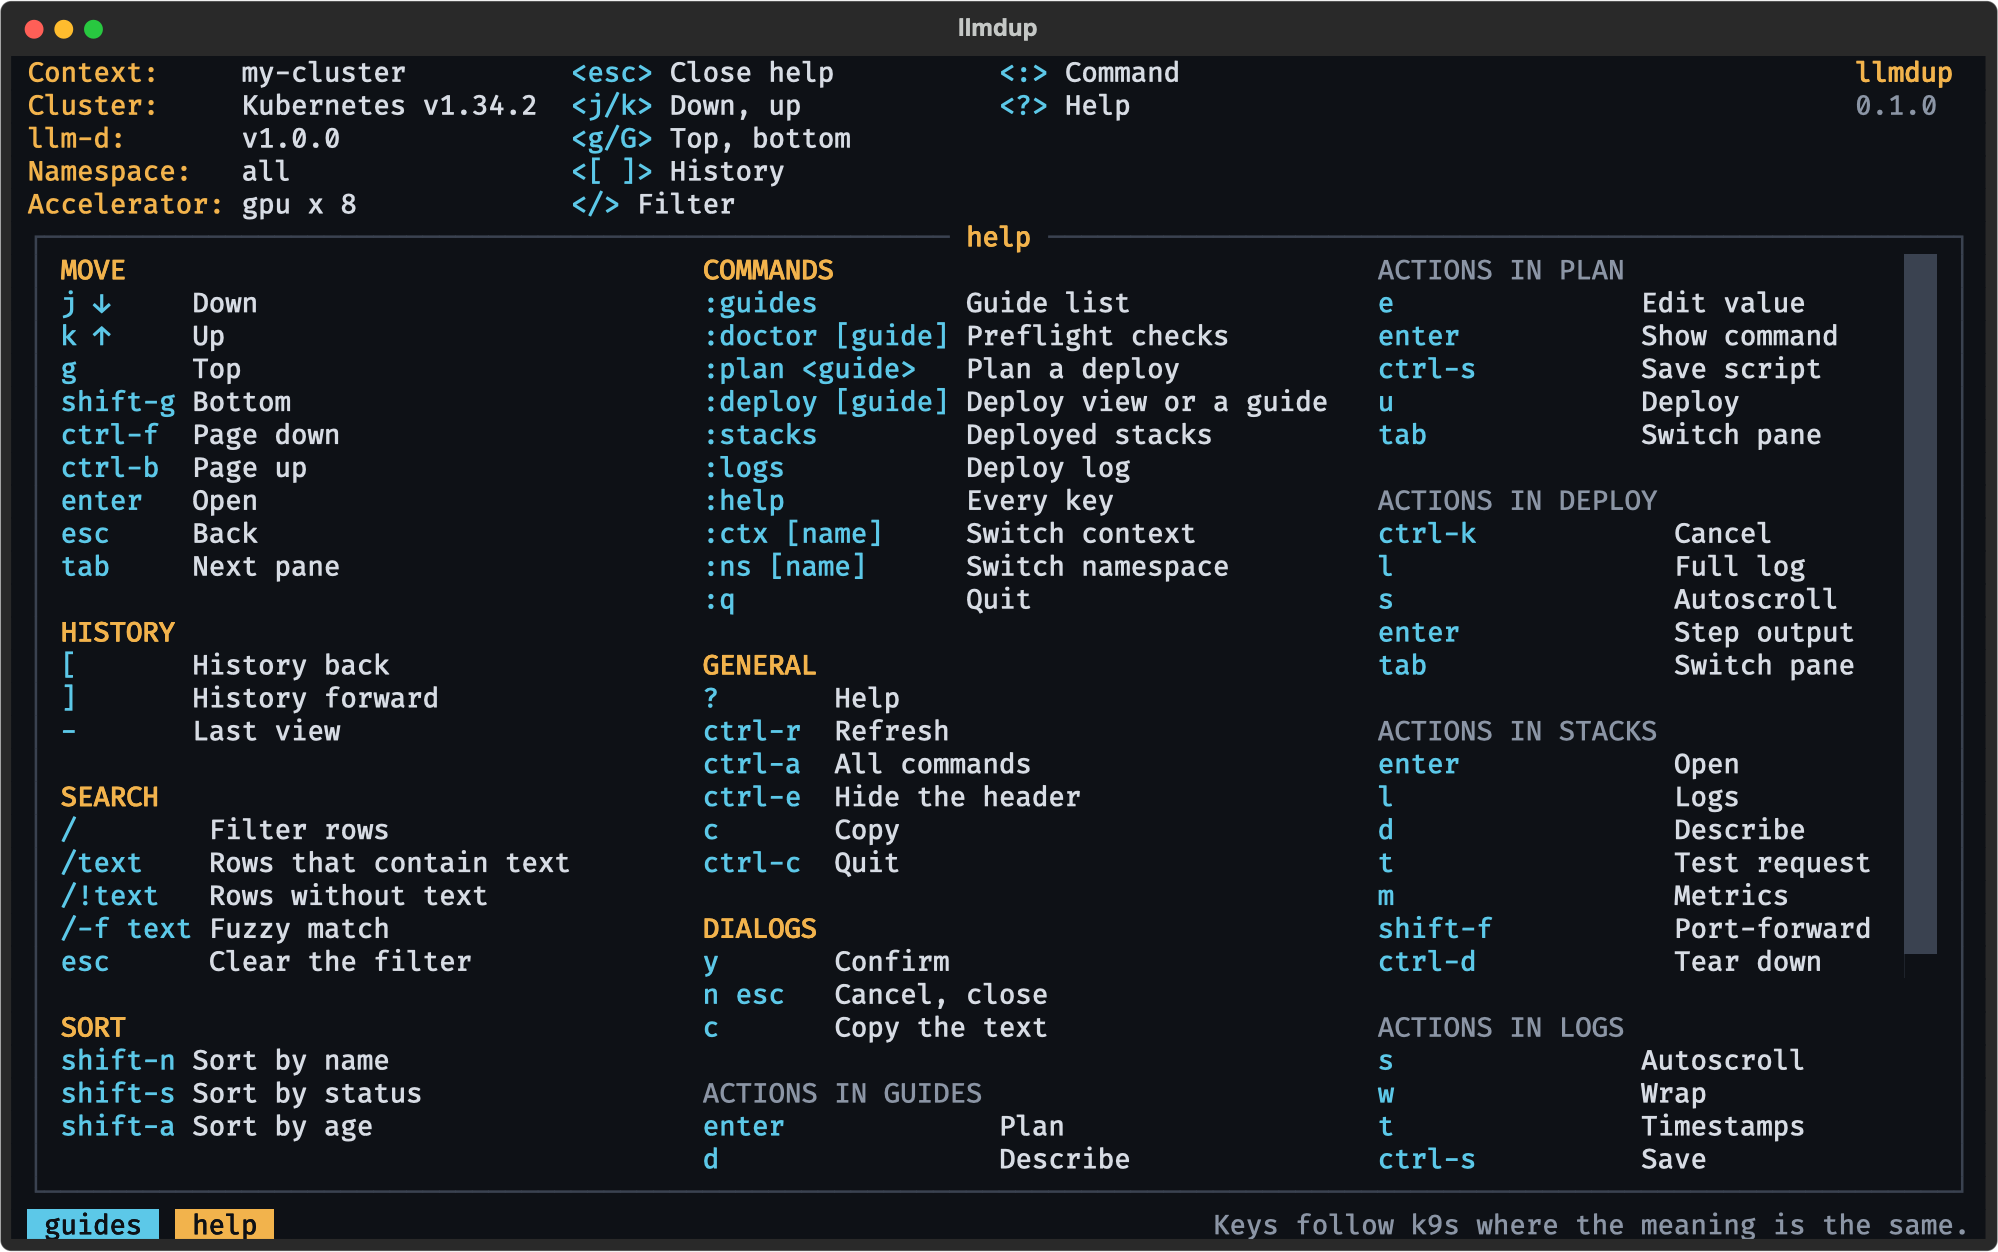
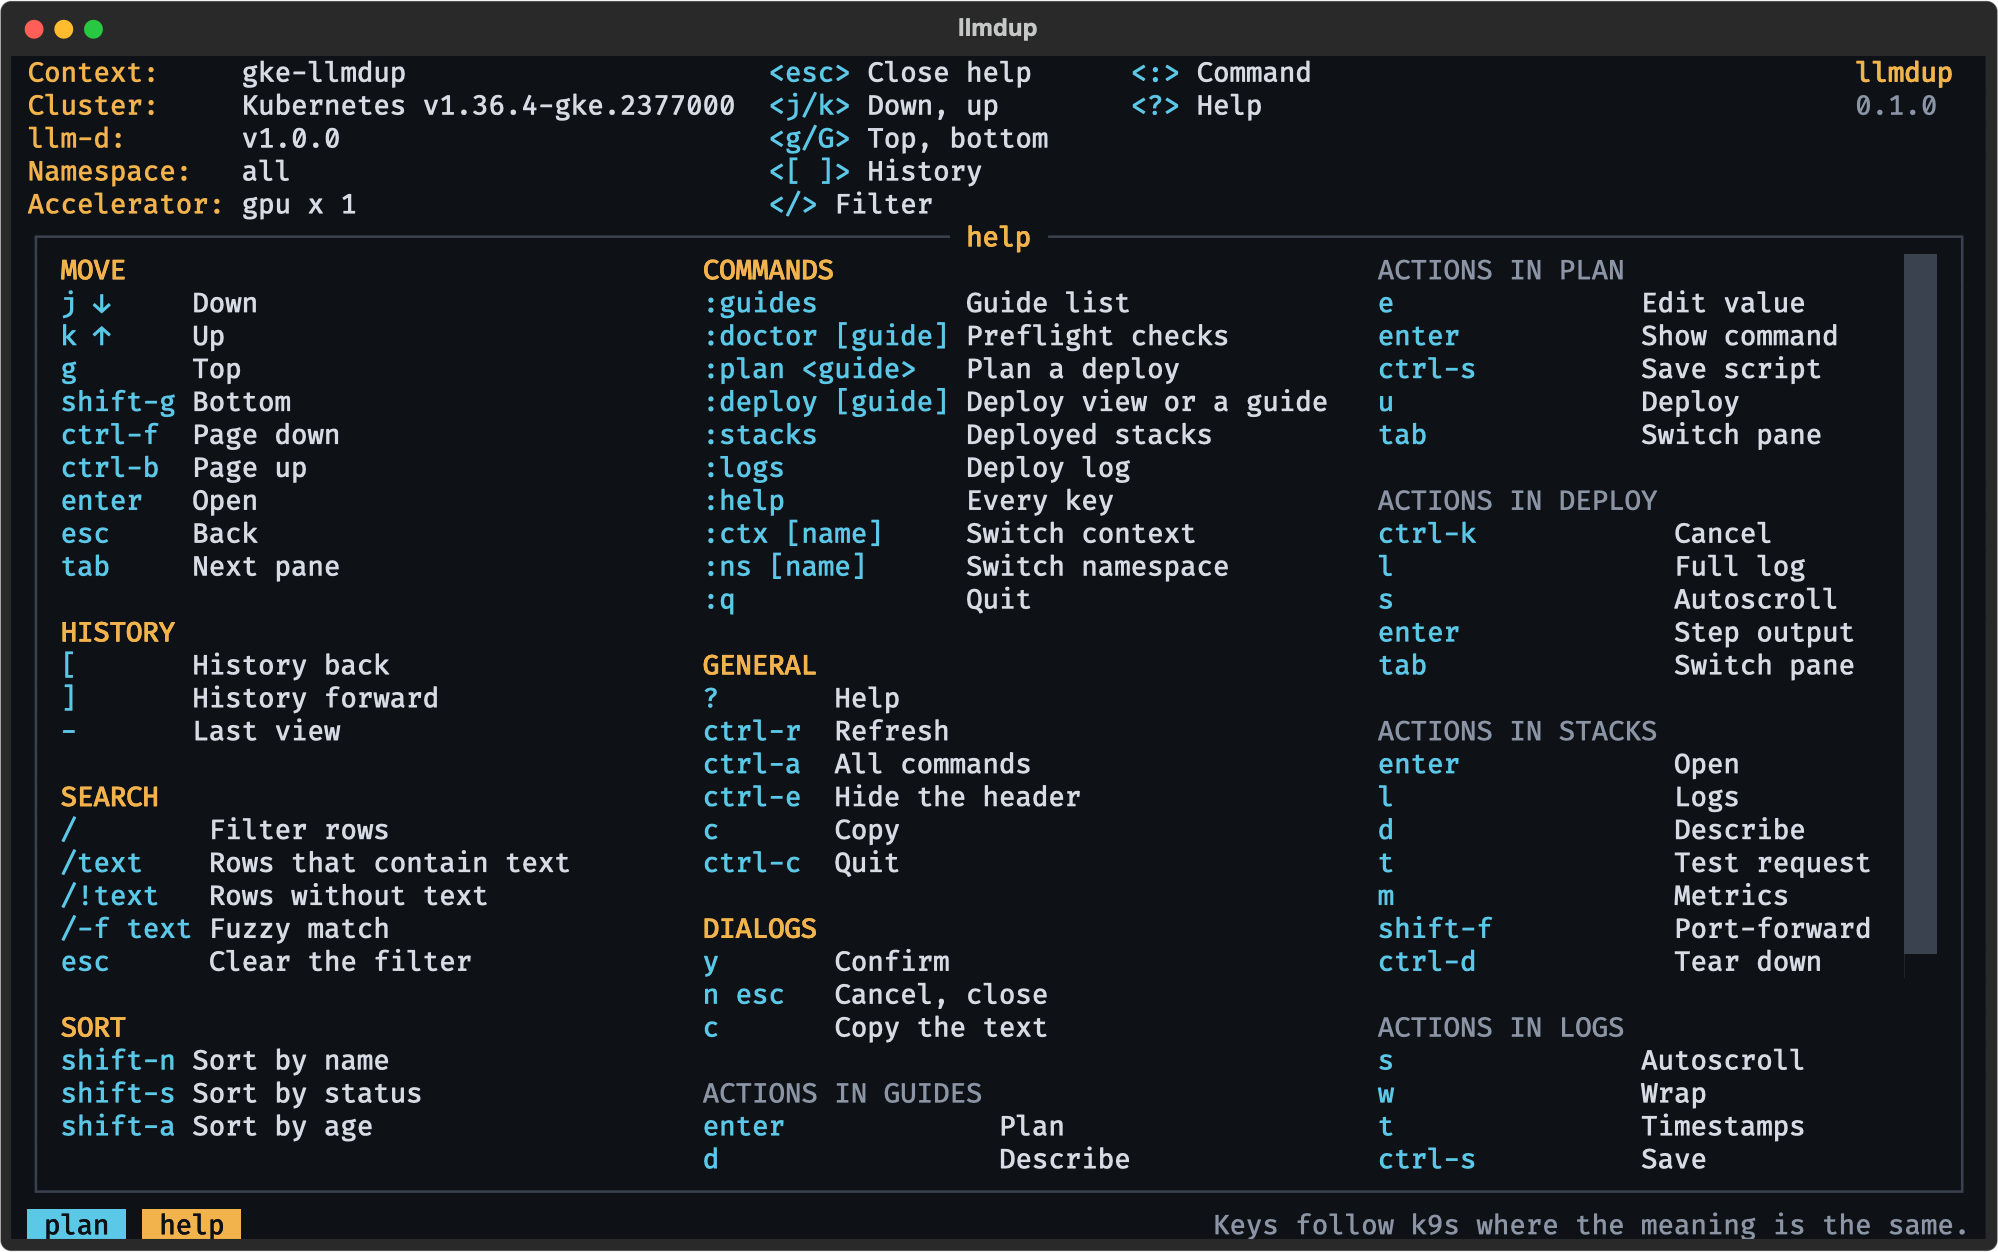
README and PROGRESS: GKE run, real screenshots from the cluster, --profile local and GKE Gateway notes

Changed region(s): [[0.2482, 0.0312, 0.6517, 0.1869], [0.031, 0.9657, 0.1552, 0.9968], [0.1241, 0.0312, 0.1862, 0.0623]]

diff --git a/PROGRESS.md b/PROGRESS.md
@@ -155,9 +155,30 @@ An Opus reviewer read Phases 0-3 and 5 and reported 4 high, 8 medium and 11 low 
 - `mcp>=2.3`; NOTICE lists the rendered GPU overlay fixture; the local-profile flow moved from cli.py into `core/local.py`; MCP `doctor` takes the same choices as `up`.
 
 ## Phase 6: Real clusters and release
-- [ ] Gateway mode, and every accelerator and engine the guide's matrix allows
-- [ ] README: install, a local demo, screenshots of the UI, and the command reference
+- [ ] Gateway mode, and every accelerator and engine the guide's matrix allows. Gateway mode on GKE: two llmdup fixes landed, the run then stopped on a GCP API that is off in the test project (below).
+- [x] README: install, a local demo, screenshots of the UI, and the command reference. Screenshots are now the app on the GKE cluster below.
 - [ ] Publish 0.1.0 to PyPI after the name check. Name check done 16 Nov 2026: `llmdup` is free on PyPI (404) and as a GitHub user/org (404). Not published: needs the user's go-ahead.
 
-Done when:
+Done when: not met yet. It needs `up optimized-baseline` on real accelerators the guide supports (4 x 80 GB GPUs, or TPU v5p/v6e/v7).
+
+### GKE run, 17 Nov 2026
+
+Cluster: GKE 1.36.4-gke.2377000, zonal us-central1-a, 2 x e2-standard-4 plus 1 spot g2-standard-4 with one NVIDIA L4, Gateway API enabled. Project quotas: 1 GPU across all regions, no H100/A100, 16 TPU v5e chips, 32 vCPU. No optimized-baseline overlay fits: GPU wants 4 x 80 GB, TPU wants v5p/v6e/v7 (no v5e overlay), CPU wants 128 cores. So the real model servers did not run; the simulator ran on the real cluster instead (`--profile local`, new in this phase). The cluster, its node pools and the proxy-only subnet were deleted after the run.
+
+| Check | Result |
+| --- | --- |
+| `doctor optimized-baseline` | Real detection: `gpu: 1 x nvidia.com/gpu`, `INFRA_PROVIDER=gke`; capacity warns 4 wanted, 1 allocatable; HF_TOKEN unset fails; exit 3 |
+| `up --profile local` standalone | 9/9 steps ok in 80 s, completion through the router |
+| `status`, `test`, `down` | ready 3/3 pods; test 5/5 steps ok (request, 10 x HTTP 200 shared prefix, metrics); down leaves nothing |
+| UI on GKE | plan, deploy (`u`, confirm), stack, test (`t`), logs, tear down (`ctrl-d`): all ok |
+| `up --profile local --mode gateway` | Not finished: GKE answers `NetworkServices API is not enabled` for the inference load balancer's traffic extension; enabling `networkservices.googleapis.com` was not done |
+
+Bugs found on GKE and fixed (commit 7cdceb3):
+- The simulator profile ran only on kind. `plan`, `doctor` and `up` take `--profile local` for any cluster, in standalone or gateway mode.
+- Upstream differs: the optimized-baseline `deploy.gateway` step pins `export GW_PROVIDER_NAME=none`, but `docs/infrastructure/gateway/gke.md` installs the same chart with `provider.name=gke`. With `none` the chart's HTTPRoute carries `timeouts`, which GKE rejects (`GWCER104 ... timeouts are not supported`), and no GKE HealthCheckPolicy is made. When the stack's `llm-d-inference-gateway` has a `gke-l7-*` class, the plan now adds `gateway.provider` right after `deploy.gateway`: `helm upgrade --reuse-values --set provider.name=gke`. Doctor names the Gateway's class, and warns when the Gateway is missing from the namespace.
+- Gateway mode ran the verify step before the Gateway had an address, so `IP` was empty. The wait now also requires the Gateway to be `Programmed` with an address (a missing Gateway does not block; doctor warns about it).
+- Stopping a run on macOS printed `PermissionError`: `killpg` answers EPERM, not ESRCH, when only zombies are left in the group. llmdup now signals the child directly in that case.
+- The stack view titled the test pane with the test plan's first step (`verify.endpoint.standalone`); it is `verify.tests` now.
+
+Seen, not llmdup: `kubectl run --rm -i` on GKE falls back from attach to streaming logs and prints the pod's output twice. The `cleanup.rest[1]` monitoring delete fails without Prometheus Operator CRDs, as on kind.
 

diff --git a/README.md b/README.md
@@ -71,7 +71,14 @@ llmdup down --yes             # the guide's cleanup, then a check that nothing i
 llmdup local down --yes       # delete the kind cluster
 ```
 
-The local profile is the `optimized-baseline` plan in standalone mode with three changes: the model servers become two [llm-d-inference-sim](https://github.com/llm-d/llm-d-inference-sim) replicas, the router is shrunk to fit a laptop, and the Hugging Face secret is skipped because the simulator downloads nothing. With Podman, set `KIND_EXPERIMENTAL_PROVIDER=podman`.
+The local profile is the `optimized-baseline` plan with three changes: the model servers become two [llm-d-inference-sim](https://github.com/llm-d/llm-d-inference-sim) replicas, the router is shrunk to fit a laptop, and the Hugging Face secret is skipped because the simulator downloads nothing. With Podman, set `KIND_EXPERIMENTAL_PROVIDER=podman`.
+
+The same profile runs on any cluster, to try the router, a Gateway and the whole flow before you have GPUs:
+
+```bash
+llmdup up optimized-baseline --profile local --context my-cluster --yes              # standalone
+llmdup up optimized-baseline --profile local --mode gateway --context my-cluster --yes
+```
 
 ## Deploy on your cluster
 
@@ -118,6 +125,8 @@ llmdup down --context my-cluster --namespace llm-d-optimized-baseline --yes
 ```
 
 Choices you leave out come from detection first, then from the guide's defaults: the accelerator from allocatable resources and DRA DeviceClasses, `INFRA_PROVIDER=gke` on GKE node pools, `MODEL` from the support matrix. A value the guide does not allow exits with code 2 and lists the allowed ones. `--mode gateway` and every accelerator and engine pair in a guide's matrix go through the same path.
+
+Gateway mode expects the Gateway `llm-d-inference-gateway` in the stack's namespace, created the way llm-d's [gateway docs](https://github.com/llm-d/llm-d/tree/v1.0.0/docs/infrastructure/gateway) describe; `doctor` checks it. On a GKE Gateway (`gke-l7-*` class) llmdup adds one step, `gateway.provider`, that switches the router chart to `provider.name=gke` as llm-d's GKE doc does, because GKE rejects the route the guide's `provider.name=none` creates. Before the smoke test, llmdup waits until the Gateway is programmed and has an address.
 
 ## Every guide in llm-d v1.0.0
 
@@ -211,7 +220,7 @@ Eight tools over stdio: `list_guides`, `show_guide`, `doctor`, `plan`, `up`, `st
 
 Keys follow k9s wherever the meaning is the same: `j`/`k` to move, `enter` to open, `esc` to go back, `[` and `]` for view history, `:` for commands such as `:plan optimized-baseline`, `:stacks` or `:ctx`, `?` for help. Every cluster-wide step and every teardown opens a dialog with the exact commands. The `HF_TOKEN` value is never drawn, only `set` or `not set`.
 
-<sub>Screens above are the app itself, rendered headless at 120 x 36 against the UI test suite's canned 8-GPU cluster. The layout also fits a 100 x 30 terminal.</sub>
+<sub>Screens above are the app on a real GKE 1.36 cluster with one L4 GPU node: guides, doctor and plan for that GPU, then a deploy, test and tear down of the simulator profile, all driven from the UI. The layout also fits a 100 x 30 terminal.</sub>
 
 ## How it works
 
